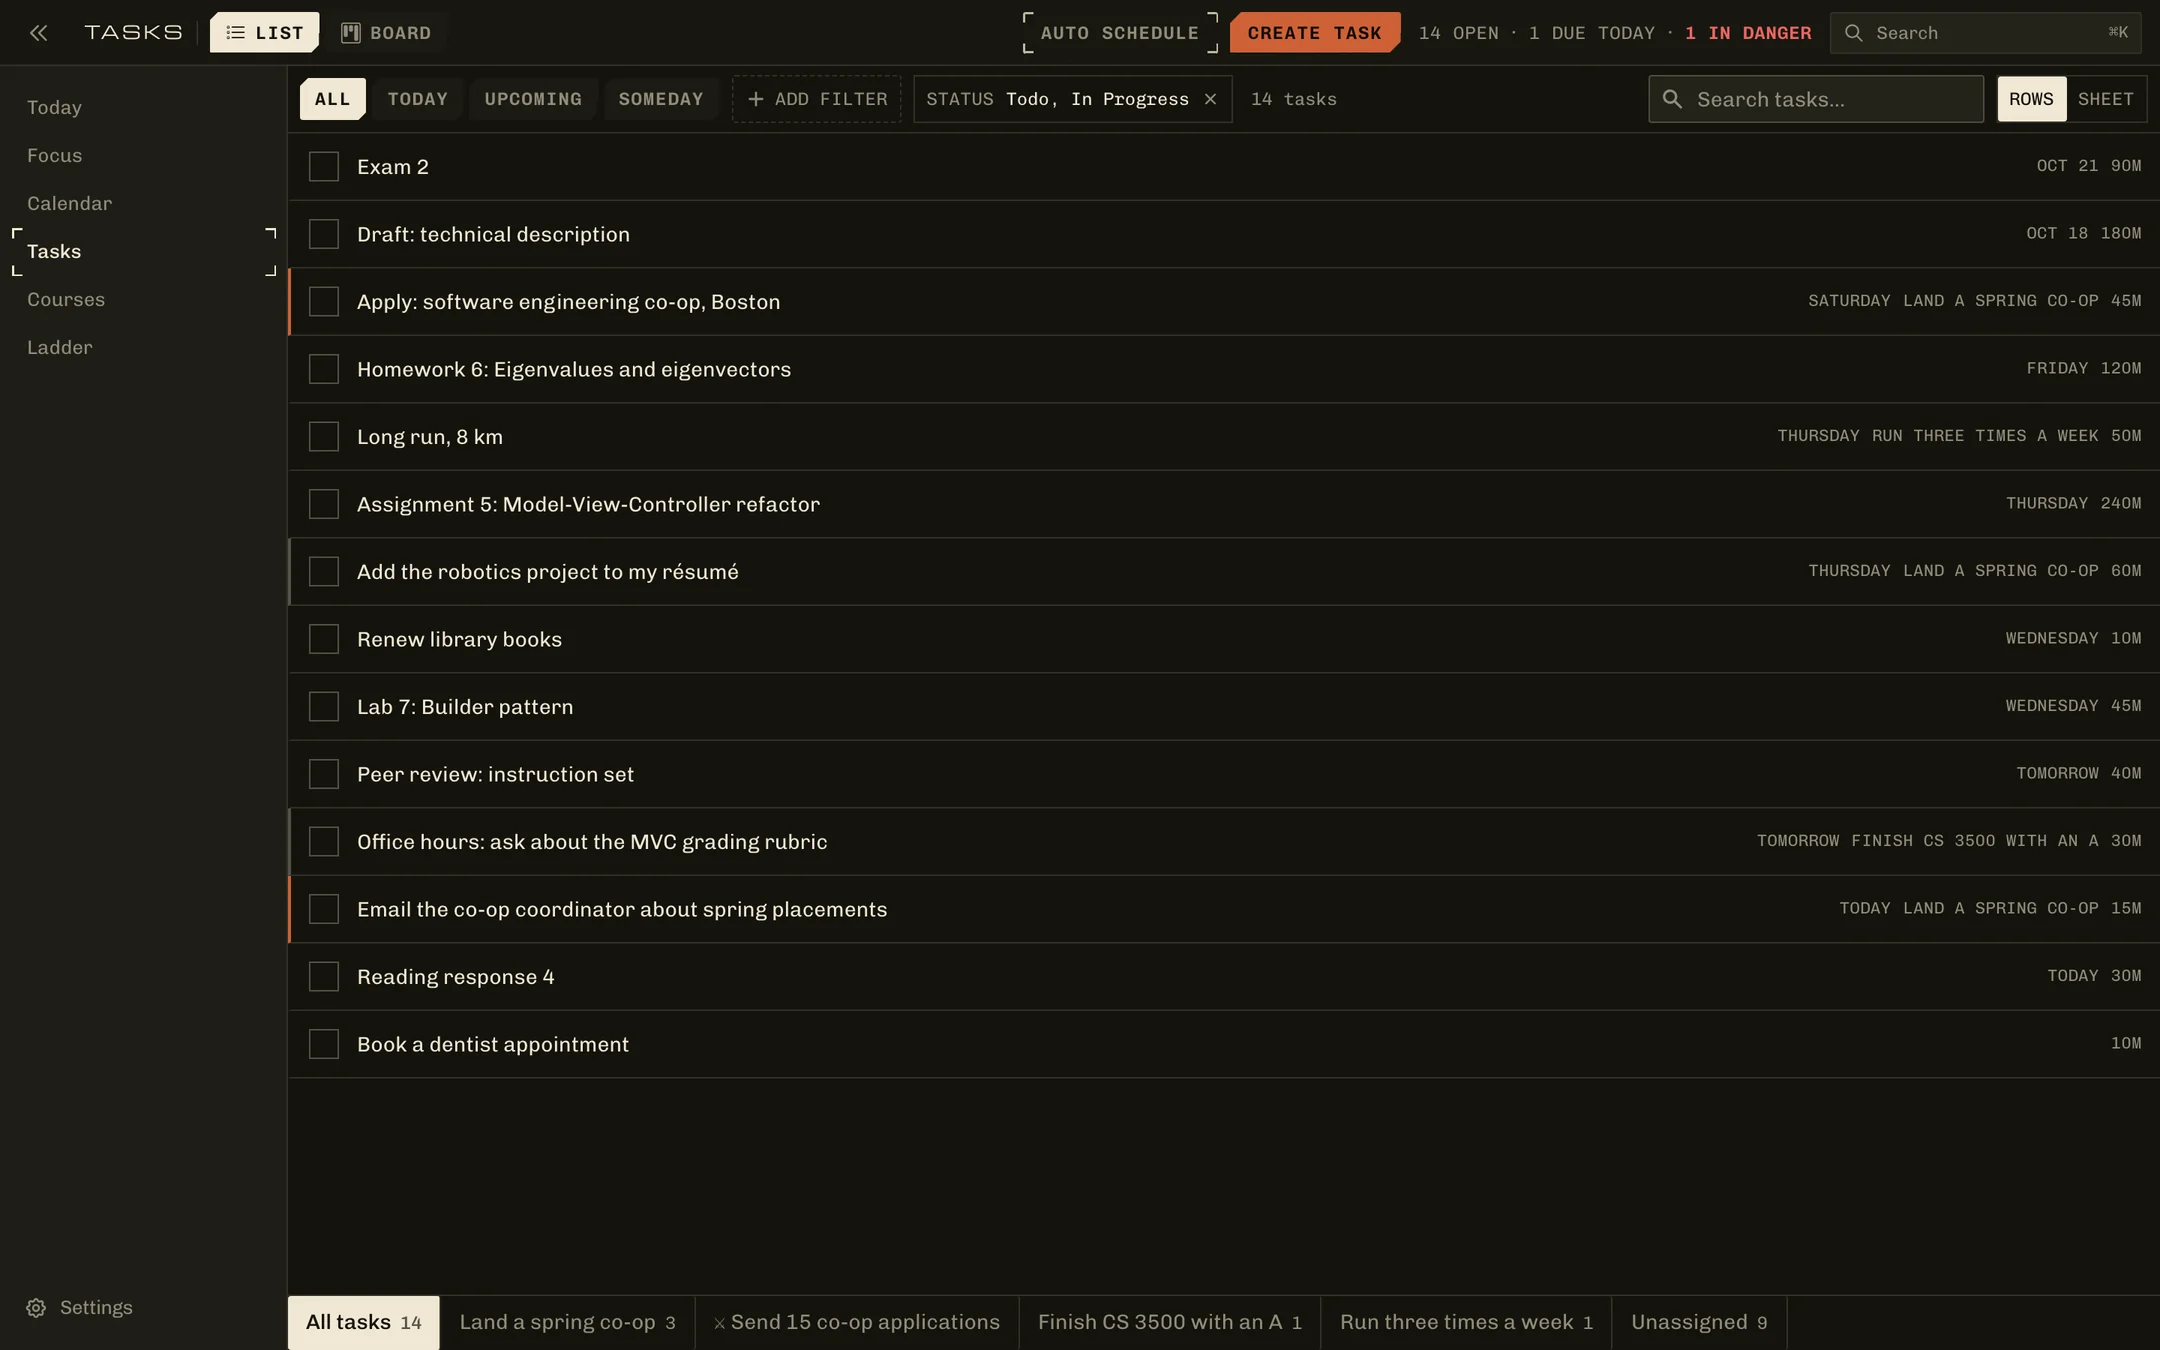
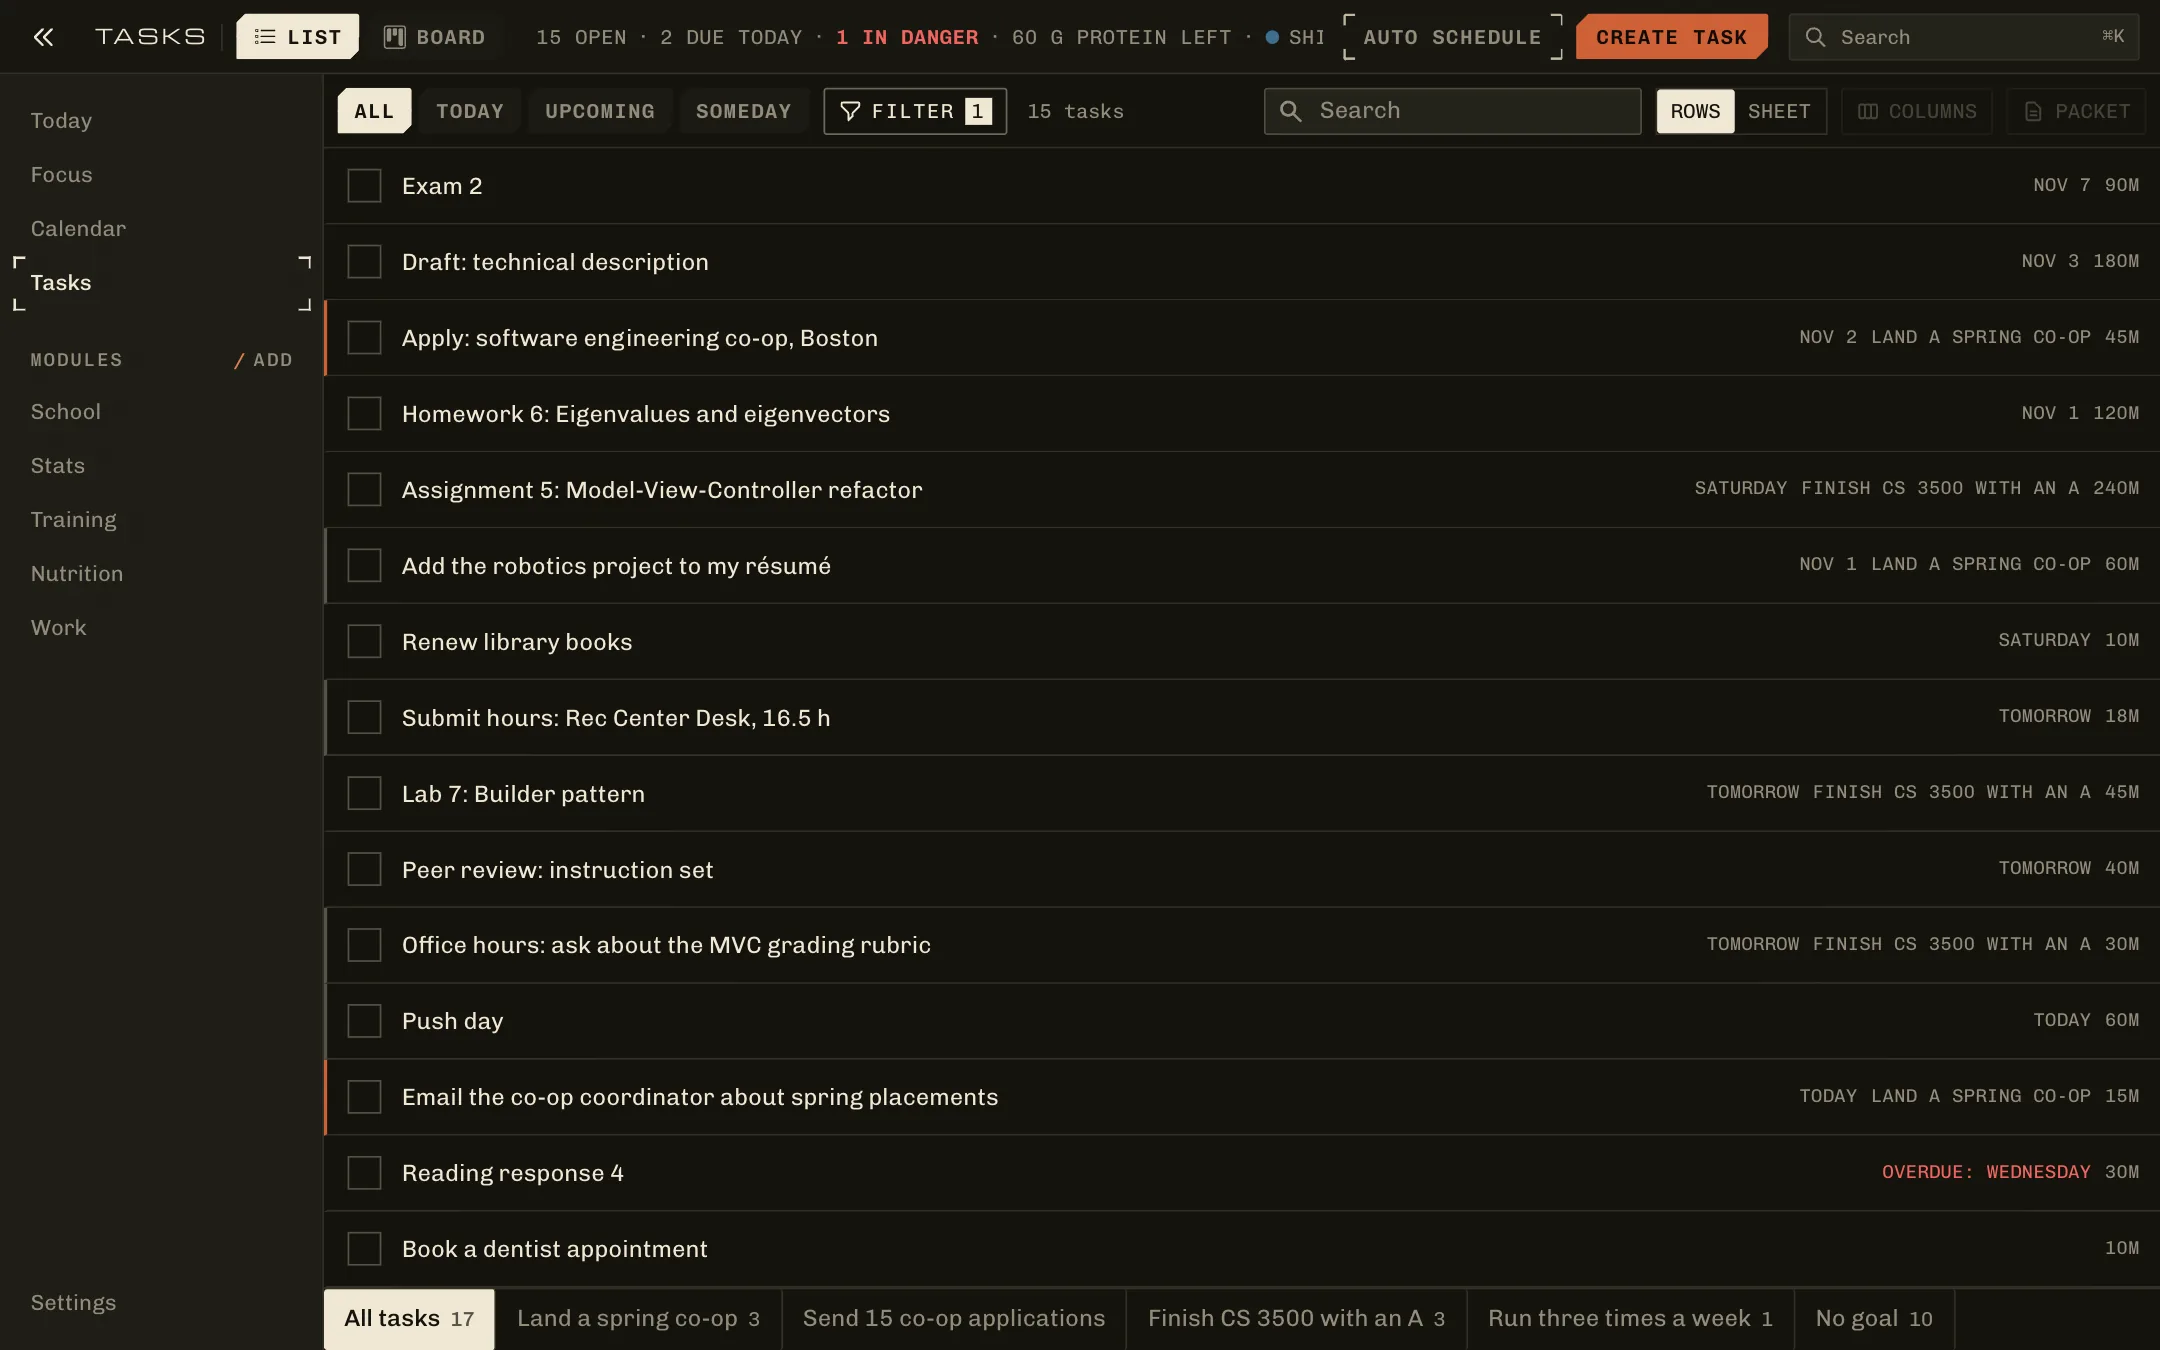
docs: the README calls the modules School and Stats, and the shots show today's app
The app renamed Courses and Ladder to School and Stats, and the README still
used the old names. The landing page and README screenshots dated from
October 12 and still showed Lords; they are retaken from the demo week at the
same size.

diff --git a/README.md b/README.md
@@ -45,12 +45,12 @@ The top bar is the same strip on every page. It holds the page's own views and a
 
 ## Modules
 
-The core works on its own, and everything else is a module you turn on or off at `/modules`. Each module's row there says what it adds, what it keeps and what it sends out of Erwin. Ladder starts on and the others start off, except that Courses comes on by itself for an install that already had Canvas connected.
+The core works on its own, and everything else is a module you turn on or off at `/modules`. Each module's row there says what it adds, what it keeps and what it sends out of Erwin. Stats starts on and the others start off, except that School comes on by itself for an install that already had Canvas connected.
 
 | Module | What it adds | Sends data to |
 |---|---|---|
-| **Courses** | Canvas assignments ranked by their share of your grade, and a Courses page with activity, grades, news and course materials | Your school's Canvas, read only |
-| **Ladder** | Goals in two-month cycles that claim their work and lift it in the ranking, XP, and a Goal column with goal tabs on Tasks | Nothing |
+| **School** | Canvas assignments ranked by their share of your grade, and a School page with activity, grades, news and course materials | Your school's Canvas, read only |
+| **Stats** | Goals in two-month cycles that claim their work and lift it in the ranking, XP, and a Goal column with goal tabs on Tasks | Nothing |
 | **People** | The people you keep in touch with, and a reach-out task when someone is due a check-in | Nothing |
 | **Training** | The workouts you repeat, each due on its schedule and logged with its sets, reps and weights | Nothing |
 | **Nutrition** | What you eat against daily targets for calories, protein, carbs and fat, with the protein left today in the top bar | Nothing |
@@ -58,21 +58,21 @@ The core works on its own, and everything else is a module you turn on or off at
 
 Turning a module off hides its page and its tasks from every list and from the scheduler, stops its background work and keeps everything it stored. Its API answers 409 `module_off` while it is off, so a script that calls it fails loudly instead of writing into a module no one can see.
 
-### Courses
+### School
 
-Courses mirrors your Canvas courses. Erwin reads your current courses every 15 minutes and turns their assignments into tasks. Your scores, feedback and rubrics land under Grades, announcements and Inbox messages under News, and module pages and files under Library, stored locally so a task's materials open from the task. Canvas is only ever read, and nothing is written back.
+School mirrors your Canvas courses. Erwin reads your current courses every 15 minutes and turns their assignments into tasks. Your scores, feedback and rubrics land under Grades, announcements and Inbox messages under News, and module pages and files under Library, stored locally so a task's materials open from the task. Canvas is only ever read, and nothing is written back.
 
 An assignment's impact in the ranking is its share of your final course grade. A weighted course splits each group's weight across the group's points, an unweighted course divides an assignment's points by the course total, and work that doesn't count toward the grade gets none. The Activity view lists what changed since you last looked (an announcement, a new file, a moved due date, a posted grade, work gone missing), with an unseen count in the top bar on every page. In Focus and in the task sheet's pane, an assignment shows its instructions, rubric and materials.
 
-### Ladder
+### Stats
 
-Ladder holds your goals. The year is six fixed two-month cycles (January and February, March and April, and so on), and the current one always exists. A goal belongs to a cycle and carries an importance from 0 to 100 and a definition of done, and a goal's importance lifts the tasks that serve it in the ranking. That lift is why a personal goal can outrank coursework once the coursework is far enough from its deadline.
+Stats holds your goals. The year is six fixed two-month cycles, which the page calls hexes (January and February, March and April, and so on), and the current one always exists. A goal belongs to a cycle and carries an importance from 0 to 100 and a definition of done, and a goal's importance lifts the tasks that serve it in the ranking. That lift is why a personal goal can outrank coursework once the coursework is far enough from its deadline.
 
 A goal gets its work in two ways. It can claim where the work comes from, and every task from there files under it on its own, finished ones included. A claim can cover all of Canvas, one course, your Google or Outlook tasks, all reach-outs, all workouts, one Training routine or a project. You can also link a task to a goal by hand in the Goal column on the Tasks page, where each of the cycle's top goals gets a tab along the bottom.
 
 A boss is a dated milestone on a goal, and it can name its proof, which is a Canvas gradebook item or another task. Handing the work in, a grade or an excusal fells the boss, and the item's due date replaces the boss's. A boss with no proof is marked done by hand. A goal you set aside files nothing new but keeps the XP its finished work earned (`src/lib/erwin/goal-rules.ts`, `src/lib/erwin/boss-proof.ts`).
 
-The Ladder page reads a cycle as a character sheet. A goal names the stats its work develops, from a fixed set of eight (Vigor, Mind, Endurance, Strength, Dexterity, Intelligence, Faith and Arcane). Every finished task earns 1 XP, split evenly across its goals and then across their stats, and a felled boss earns 5. Level L costs L(L+1)/2 XP in all, so each level asks for one more XP than the last. XP is worked out from finished tasks each time the page loads and is never stored, so changing a goal's stats changes its history too (`src/lib/erwin/xp.ts`). Each cycle can name a Build, the two or three stats it pushes, and the page shows how much of the cycle's XP landed on them. A tool that keeps your goals somewhere else can send them, with the Build, through `POST /api/erwin/goals/project`, and `GET /api/erwin/xp` reports the same XP over any span of days.
+The Stats page reads a cycle as a character sheet. A goal names the stats its work develops, from a fixed set of eight (Vigor, Mind, Endurance, Strength, Dexterity, Intelligence, Faith and Arcane). Every finished task earns 1 XP, split evenly across its goals and then across their stats, and a felled boss earns 5. Level L costs L(L+1)/2 XP in all, so each level asks for one more XP than the last. XP is worked out from finished tasks each time the page loads and is never stored, so changing a goal's stats changes its history too (`src/lib/erwin/xp.ts`). Each cycle can name a Build, the two or three stats it pushes, and the page shows how much of the cycle's XP landed on them. A tool that keeps your goals somewhere else can send them, with the Build, through `POST /api/erwin/goals/project`, and `GET /api/erwin/xp` reports the same XP over any span of days.
 
 ### People
 
@@ -111,8 +111,8 @@ flowchart LR
         M["Tasks you type"]
     end
     subgraph Mods["Modules you turn on"]
-        V["Courses (Canvas)"]
-        L["Ladder, People, Training, Nutrition, Work"]
+        V["School (Canvas)"]
+        L["Stats, People, Training, Nutrition, Work"]
     end
 
     S["Sync layer"]
@@ -144,7 +144,7 @@ sequenceDiagram
     participant R as Ranker
 
     T->>S: tick (every 15 minutes by default)
-    S->>X: read calendars, and courses while Courses is on
+    S->>X: read calendars, and courses while School is on
     X-->>S: current data
     S->>DB: upsert events and tasks
     S->>DB: run each module's job (log reach-outs and workouts ticked off elsewhere)
@@ -174,7 +174,7 @@ flowchart LR
 
 | Input | How it is computed |
 |---|---|
-| **Impact (0.35)** | The larger of the task's own impact and the importance of the goal it serves (0 to 100, divided by 100), then divided by the largest value in the current pool so coursework and goal-driven tasks compete on one 0 to 1 scale. A task's own impact comes from the module that owns it, and today only Courses sets one (an assignment's share of the final grade). It falls by 10% for each day a task is late (to a floor of 0.05, and to half after the lock date). |
+| **Impact (0.35)** | The larger of the task's own impact and the importance of the goal it serves (0 to 100, divided by 100), then divided by the largest value in the current pool so coursework and goal-driven tasks compete on one 0 to 1 scale. A task's own impact comes from the module that owns it, and today only School sets one (an assignment's share of the final grade). It falls by 10% for each day a task is late (to a floor of 0.05, and to half after the lock date). |
 | **Deadline pressure (0.45)** | A sigmoid of the hours left, `1 / (1 + e^(0.15 × (hours - 48)))`, which is 0.5 at 48 hours out, rises toward 1 as the due date nears, and stays at 1 once a task is overdue. A task with no due date scores 0. |
 | **Effort fit (0.20)** | How well the task's estimate (30 minutes when none is set) matches the open slot (240 minutes when no slot is known), as `1 - abs(estimate - slot) / max(estimate, slot)`. |
 | **Visibility boost (+0.15)** | Added to a task due in more than 7 days whose stakes sit above the 80th percentile of its group's open work, so a large far-off assignment is not invisible until it is urgent. For Canvas the stakes are an assignment's share of the grade and the group is its course. |
@@ -232,7 +232,7 @@ npm install
 npm run dev:local -- --seed demo
 ```
 
-`dev:local` runs Erwin on PGlite (Postgres compiled to WebAssembly) with no Postgres or Docker. It keeps its database in the `.local` folder and prints a link that signs you in. The `--seed demo` flag fills a fresh database with one example student's week, with classes, assignments, goals, three workout routines, three days of meals and a campus job's shifts, and it turns on Courses, Training, Nutrition and Work. The `--reset` flag starts over with an empty database. It listens on your machine only, and `--lan` opens it to a phone (see [On a phone](#on-a-phone)).
+`dev:local` runs Erwin on PGlite (Postgres compiled to WebAssembly) with no Postgres or Docker. It keeps its database in the `.local` folder and prints a link that signs you in. The `--seed demo` flag fills a fresh database with one example student's week, with classes, assignments, goals, three workout routines, three days of meals and a campus job's shifts, and it turns on School, Training, Nutrition and Work. The `--reset` flag starts over with an empty database. It listens on your machine only, and `--lan` opens it to a phone (see [On a phone](#on-a-phone)).
 
 ## Self-host
 
@@ -289,7 +289,7 @@ Pick the desktop app if you want a download that works offline with no account. 
 
 ## Connecting services
 
-**Canvas** comes with the Courses module. Turn on Courses in Modules, then add your Canvas base URL (such as `https://your-school.instructure.com`) and a personal access token on its row (in Canvas, Account, then Settings, then New access token). Erwin keeps only current courses, judged by the term in the course name or an upcoming due date. The token is stored encrypted and is only ever used to read. An OAuth connection is planned for distributed builds, so that the app can connect without a token you paste in.
+**Canvas** comes with the School module. Turn on School in Modules, then add your Canvas base URL (such as `https://your-school.instructure.com`) and a personal access token on its row (in Canvas, Account, then Settings, then New access token). Erwin keeps only current courses, judged by the term in the course name or an upcoming due date. The token is stored encrypted and is only ever used to read. An OAuth connection is planned for distributed builds, so that the app can connect without a token you paste in.
 
 **CalDAV** (iCloud, Fastmail, Nextcloud). In Settings, open Accounts, choose Connect CalDAV Calendar, and enter the server URL with an app-specific password.
 
@@ -331,7 +331,7 @@ The repository holds the app (`src/`, with each module under `src/modules/`, and
 
 ## Privacy
 
-Your tasks, notes, goals, course materials, workouts, meals and shifts stay in the database on your machine or your server. Erwin has no analytics, no crash reporting and no telemetry, and it sends nothing to any AI service. It contacts only the services you connect (Canvas, Google, Microsoft, a CalDAV server) and, for desktop builds downloaded from GitHub, GitHub Releases to check for an update. Ladder, People, Training, Nutrition and Work send nothing anywhere. Credentials are stored encrypted with `ERWIN_SECRET_KEY`. [`DATAFLOW.md`](DATAFLOW.md) lists every endpoint, what is sent and why, and the privacy policy is at [kaitosoeno.com/privacy](https://kaitosoeno.com/privacy).
+Your tasks, notes, goals, course materials, workouts, meals and shifts stay in the database on your machine or your server. Erwin has no analytics, no crash reporting and no telemetry, and it sends nothing to any AI service. It contacts only the services you connect (Canvas, Google, Microsoft, a CalDAV server) and, for desktop builds downloaded from GitHub, GitHub Releases to check for an update. Stats, People, Training, Nutrition and Work send nothing anywhere. Credentials are stored encrypted with `ERWIN_SECRET_KEY`. [`DATAFLOW.md`](DATAFLOW.md) lists every endpoint, what is sent and why, and the privacy policy is at [kaitosoeno.com/privacy](https://kaitosoeno.com/privacy).
 
 ## Credits
 
